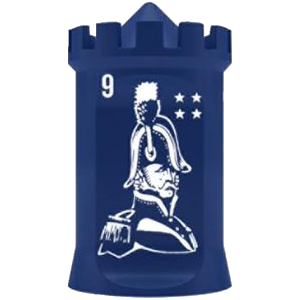
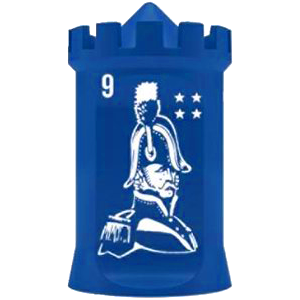
Login Theme and Drag/Drog feature implementation

diff --git a/src/main/resources/static/js/game.js b/src/main/resources/static/js/game.js
@@ -4,11 +4,21 @@ $(document).ready(function($) {
         refresh();
     });
     init();
-
-            $('.draggable').draggable({ revert: true, cursor: 'move'});
+    var dropt = false;
+            $('.draggable').draggable({
+                 appendTo: "body",
+                 revert: "invalid" ,
+                 helper: function () {
+                     $copy = $(this).clone();
+                     $copy.css({"list-style":"none","width":$(this).outerWidth()});
+                     return $copy;
+                 },
+                 scroll: false
+            });
             $('.droppable').droppable({
                hoverClass: 'active',
                cursor: "default",
+               tolerance: "pointer",
                drop: function(ev, ui) {
                 var dropped = ui.draggable;
                 var droppedOn = $(this);
@@ -27,7 +37,7 @@ $(document).ready(function($) {
 
                 });
 
-                
+
 
 
 
@@ -45,30 +55,48 @@ function init(){
     $('#pieces').html( '' );
 
     var count = 1;
-    for (var i=0; i<6; i++ ) {
+    for (var i=0; i<40; i++ ) {
         $('#pieces').append('<div class="draggable" id = Bomb'+count+'></div>');
-        $('#Bomb'+count).prepend($('<img>',{class:"img-fluid",src:'../images/Bomb.png'}));
+        $('#Bomb'+count).prepend($('<img>',{class:"img-fluid",src:'../images/B_Bomb.png'}));
         count++;
     }
 
       // Create the card slots
-    for ( var i=1; i<=100; i++ ) {
-        $('.wrapper').append('<div class="droppable" id = Box'+i+'></div>');
-     }
+    for ( var i=0; i<=99; i++ ) {
+        if ( i == 42 || i == 43 || i == 46 || i == 47 || i == 52 || i == 53 || i == 56 || i == 57){
+            $('.wrapper').append('<div id = Box'+i+'></div>');
+        }
+        else{
+            $('.wrapper').append('<div class="droppable" id = Box'+i+'></div>');
+        }
+    }
 }
 
 
 function refresh() {
+    var height = $(window).height() - ($(".logo").outerHeight() + $(".Lost").outerHeight());
+    $("#pieces").height(height);
         var x=$(window).width();
         var y=$(window).height();
-        if(x < 1300 && x>730){
+        if(x>400){
             var a=x/1.5;
-            var pad = a*9.5/100;
-            $(".wrapper").css('width', a);
-            $(".wrapper").css('height', a);
-            $(".wrapper").css('padding', pad);
-            var w=$(".droppable").width();
-            var h=$(".droppable").height();
-            $(".droppable .draggable").css('width', w, 'height', h);
+            if(a<=950){
+                var pad = a*9.5/100;
+                $(".wrapper").css('width', a);
+                $(".wrapper").css('height', a);
+                $(".wrapper").css('padding', pad);
+                var w=$(".droppable").width();
+                var h=$(".droppable").height();
+                $(".droppable .draggable").css('width', w, 'height', h);
+            }
+            else{
+                var pad = 950*9.5/100;
+                $(".wrapper").css('width', 950);
+                $(".wrapper").css('height', 950);
+                $(".wrapper").css('padding', pad);
+                var w=$(".droppable").width();
+                var h=$(".droppable").height();
+                $(".droppable .draggable").css('width', w, 'height', h);
+            }
         }
 }

diff --git a/src/main/resources/templates/login.html b/src/main/resources/templates/login.html
@@ -5,33 +5,34 @@
 <head>
     <title>Spring Security Tutorial</title>
     <link rel="stylesheet" type="text/css" th:href="@{/css/login.css}" />
-    <link rel="stylesheet" href="https://maxcdn.bootstrapcdn.com/bootstrap/3.3.7/css/bootstrap.min.css">
     <script src="https://ajax.googleapis.com/ajax/libs/jquery/3.1.1/jquery.min.js"></script>
-    <script src="https://maxcdn.bootstrapcdn.com/bootstrap/3.3.7/js/bootstrap.min.js"></script>
-</head>
+    <link rel="stylesheet" href="https://stackpath.bootstrapcdn.com/bootstrap/4.3.1/css/bootstrap.min.css" integrity="sha384-ggOyR0iXCbMQv3Xipma34MD+dH/1fQ784/j6cY/iJTQUOhcWr7x9JvoRxT2MZw1T" crossorigin="anonymous"></head>
 
 <body>
 
 
-<div class="container">
-    <img src="http://jumbostrategygames.com/wp-content/themes/jumbo-strategy-games/images/stratego-footer@1x.png" class="img-responsive center-block" alt="Logo" />
-    <form th:action="@{/login}" method="POST" class="form-signin">
-        <h3 class="form-signin-heading" th:text="Welcome"></h3>
-        <br/>
+<div class="container-fluid">
+    <div class="row align-items-center h-100">
+        <div class="col-6 mx-auto">
+            <form th:action="@{/login}" method="POST" class="form-signin">
+                <h3 class="form-signin-heading" th:text="Welcome"></h3>
+                <br/>
 
-        <input type="text" id="email" name="email"  th:placeholder="Email"
-               class="form-control" /> <br/>
-        <input type="password"  th:placeholder="Password"
-               id="password" name="password" class="form-control" /> <br />
+                <input type="text" id="email" name="email"  th:placeholder="Email"
+                       class="form-control" /> <br/>
+                <input type="password"  th:placeholder="Password"
+                       id="password" name="password" class="form-control" /> <br />
 
-        <div align="center" th:if="${param.error}">
-            <p style="font-size: 20; color: #FF1C19;">Email or Password invalid, please verify</p>
+                <div align="center" th:if="${param.error}">
+                    <p style="font-size: 20; color: #FF1C19;">Email or Password invalid, please verify</p>
+                </div>
+                <button class="btn btn-lg btn-primary btn-block" name="Submit" value="Login" type="Submit" th:text="Login"></button>
+            </form>
+            <form th:action="@{/registration}" method="get">
+                <button class="btn btn-md btn-warning btn-block" type="Submit">Go To Registration Page</button>
+            </form>
         </div>
-        <button class="btn btn-lg btn-primary btn-block" name="Submit" value="Login" type="Submit" th:text="Login"></button>
-    </form>
-    <form th:action="@{/registration}" method="get">
-        <button class="btn btn-md btn-warning btn-block" type="Submit">Go To Registration Page</button>
-    </form>
+    </div>
 </div>
 </body>
 </html>

diff --git a/src/main/resources/static/css/game.css b/src/main/resources/static/css/game.css
@@ -1,9 +1,10 @@
 html,
 body {
     height: 100%;
-    background:url("../images/space.gif") no-repeat;
+    background: #007bff;
     background-size: cover;
     background-position: 50% 50%;
+
 }
 
 .container-fluid {
@@ -19,6 +20,7 @@ body {
     transform: translateX(-50%) translateY(-50%);
 }
 .wrapper {
+      position:absolute;
       background:url("../images/map.png") no-repeat;
       background-size: cover;
       background-position: 50% 50%;
@@ -29,10 +31,14 @@ body {
       padding: 42px;
       width: 50vh;
       height: 50vh;
+      -webkit-box-shadow: 0px 0px 99px 1px rgba(0,0,0,0.75);
+      -moz-box-shadow: 0px 0px 99px 1px rgba(0,0,0,0.75);
+      box-shadow: 0px 0px 99px 1px rgba(0,0,0,0.75);
 }
 
 .wrapper div{
     position: relative;
+
 }
 
 img {
@@ -46,18 +52,34 @@ img {
 
 #pieces {
           display: grid;
-          grid-gap: 0;
-          grid-template-columns: repeat(2, auto);
+          grid-gap: 20px;
+          overflow: auto;
+          place-items: center;
+          grid-template-columns: repeat(3, auto);
           grid-auto-flow: row;
+          text-align: center;
 }
 
+@media only screen and (max-width: 900px) {
+  #pieces {
+    grid-template-columns: repeat(1, auto);
+  }
+}
+
+
+.logo{
+   padding-top: 50px;
+   padding-bottom: 30px;
+}
 #pieces div {
-  width: 100px;
-  height: 100px;
+  max-width: 100px;
 }
 
 .side-menu{
-    background-color: #007bff;
+    background-color: #dc3545;
+    border-left-color: white;
+    border-left-style: solid;
+    text-align: center;
 }
 
 .draggable{
@@ -65,4 +87,28 @@ img {
 
 .droppable{
 
+}
+
+.box{
+	width: 35px;
+    height: 35px;
+    border-style: solid;
+}
+
+.red{
+	background:#dc3545;
+    float:left;
+    overflow:hidden;
+}
+
+.blue{
+	background:#007bff;
+	float:left;
+    overflow:hidden;
+}
+
+.Lost{
+    width: 50%;
+    padding-bottom: 25px;
+    margin: auto;
 }

diff --git a/src/main/resources/templates/admin/game.html b/src/main/resources/templates/admin/game.html
@@ -23,11 +23,18 @@
 <body>
 <div class="container-fluid">
     <div class="row justify-content-center h-100">
-        <div class="col-2 no-float">
+        <div class="col-9 no-float">
             <div class="wrapper centered">
             </div>
         </div>
         <div class="col-3 no-float side-menu">
+            <img th:src="@{/images/logo.png}" class="img-fluid logo">
+            <div class="Lost">
+                <div class="box red"></div>
+                <p>12</p>
+                <div class="box blue"></div>
+                <p>24</p>
+            </div>
             <div id="pieces"></div>
         </div>
     </div>

diff --git a/src/main/resources/static/css/login.css b/src/main/resources/static/css/login.css
@@ -1,4 +1,7 @@
 html,
-body{
+body, .container-fluid {
     height: 100%;
+    background:url("../images/exploredribbblet.gif") no-repeat;
+    background-size: cover;
+    background-position: 50% 50%;
 }
